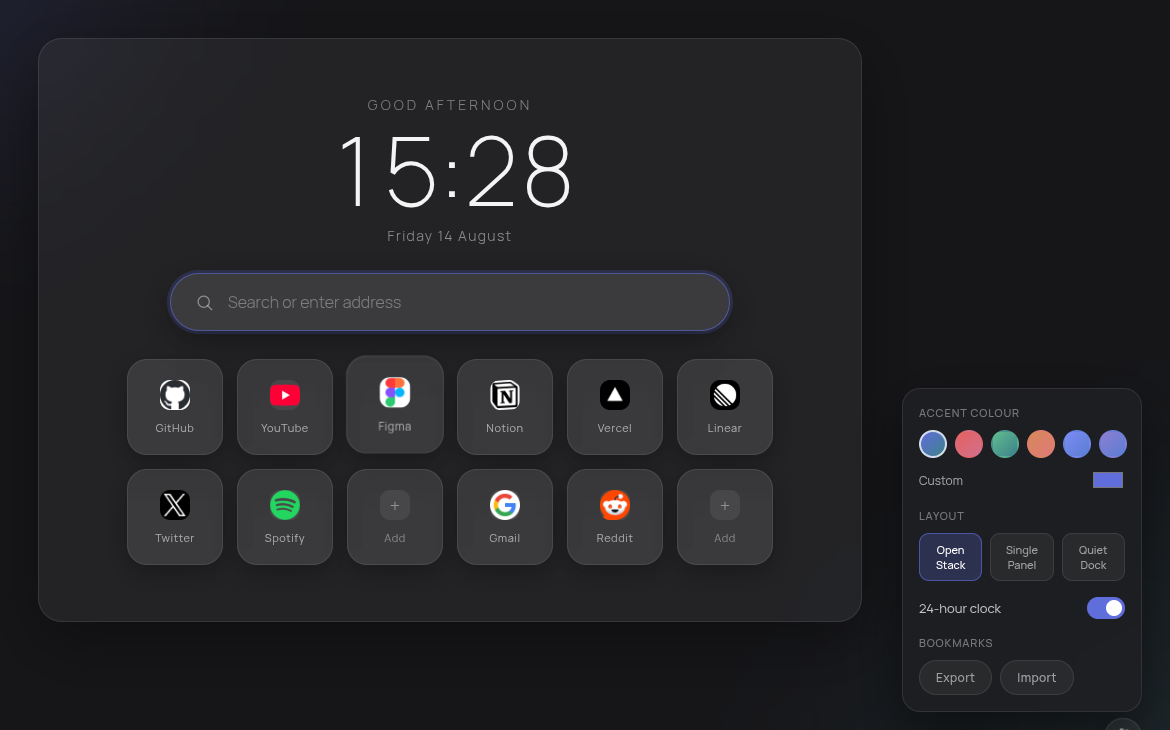
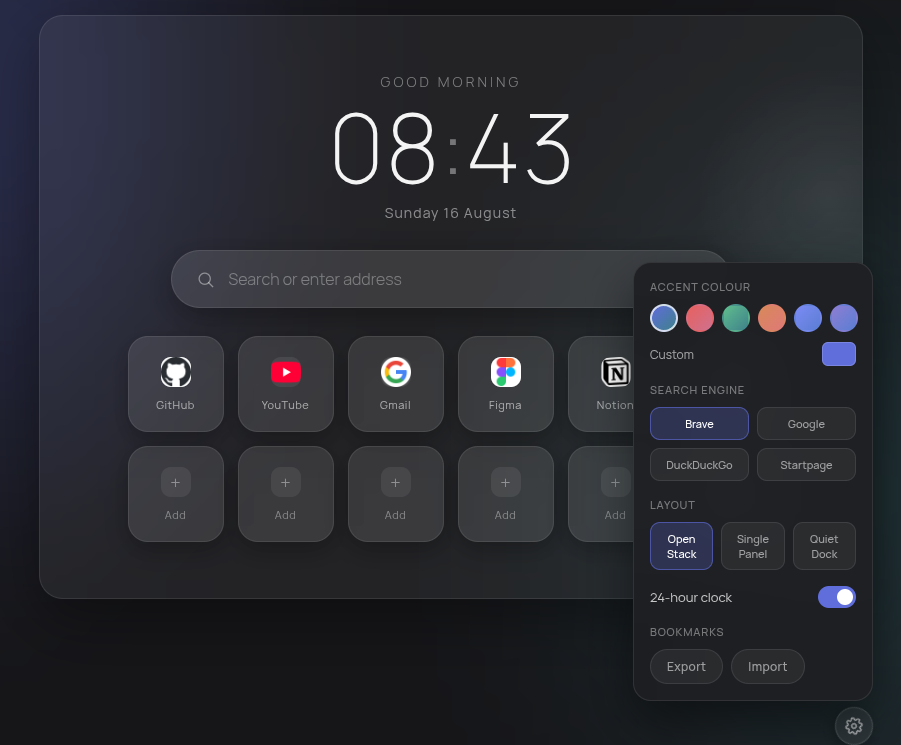
Release v1.1
Bump manifest version to 1.1, add CHANGELOG.md, update the README's
feature list for the search engine switcher, drag-to-reorder, liquid-
glass hover glow, and the redesigned bookmark modal, and refresh the
settings screenshot to show the new search engine section.

diff --git a/README.md b/README.md
@@ -8,6 +8,7 @@
 
 A live clock, quick search, and a 12-tile bookmark grid — wrapped in a soft, animated frosted-glass surface with three selectable layouts.
 
+[![Release](https://img.shields.io/badge/release-v1.1-6d78e8?style=flat-square)](../../releases/latest)
 [![License: MIT](https://img.shields.io/badge/license-MIT-6d78e8?style=flat-square)](LICENSE)
 [![Manifest V3](https://img.shields.io/badge/manifest-v3-6d78e8?style=flat-square)](manifest.json)
 [![No dependencies](https://img.shields.io/badge/dependencies-none-6d78e8?style=flat-square)](#tech)
@@ -23,9 +24,13 @@ A live clock, quick search, and a 12-tile bookmark grid — wrapped in a soft, a
 ## Features
 
 - **Three layouts** — pick the shape that fits how you browse
-- **Live clock** with a 12/24-hour toggle, auto date, and time-aware greeting
+- **Search engine switcher** — Brave, Google, DuckDuckGo, or Startpage, picked from settings
+- **Drag-to-reorder bookmarks** — drag any tile onto another to swap their places, even into an empty slot
+- **Live clock** with a 12/24-hour toggle, a softly pulsing colon, auto date, and time-aware greeting
 - **Accent themes** — six curated presets plus a custom color picker, rendered as a soft dual-tone glow behind the page
 - **12-tile bookmark grid** — click to open, right-click to edit
+- **Liquid-glass hover glow** — a cursor-tracked specular highlight sweeps across the frosted card, search bar, and tiles as you move the mouse
+- **Frosted, animated bookmark editor** — the add/edit modal opens and closes with a soft blur-and-scale transition
 - **Cached favicons** — each icon is fetched once per domain and cached locally, so new tabs load instantly with no repeat network calls
 - **Full keyboard navigation** — arrow keys move between bookmarks and the search bar, `Enter`/`Space` opens the focused tile
 - **Middle-click** any bookmark to open it in a new tab
@@ -49,7 +54,7 @@ A live clock, quick search, and a 12-tile bookmark grid — wrapped in a soft, a
 </td>
 <td align="center" width="34%">
 <img src="screenshots/dock.png" width="100%" alt="Quiet Dock layout" /><br />
-<sub><b>Quiet Dock</b> — a minimal icon strip, clock as anchor</sub>
+<sub><b>Quiet Dock</b> — a minimal icon strip, clock as anchor, names on hover</sub>
 </td>
 </tr>
 </table>
@@ -91,6 +96,12 @@ Frostpane isn't on the Chrome Web Store — install it as an unpacked extension:
 ## Tech
 
 No build step, no framework — vanilla HTML, CSS, and JavaScript, backed by `chrome.storage.local` for persistence. Manifest V3.
+
+<br />
+
+## Changelog
+
+See [CHANGELOG.md](CHANGELOG.md) for release notes.
 
 <br />
 

diff --git a/CHANGELOG.md b/CHANGELOG.md
@@ -1,0 +1,25 @@
+# Changelog
+
+All notable changes to Frostpane are documented here.
+
+## [1.1] — 2026-08-16
+
+### Added
+- Search engine switcher — choose Brave, Google, DuckDuckGo, or Startpage from the settings panel
+- Drag-to-reorder bookmarks — drag a tile onto another to swap their positions, including into an empty slot
+- Cursor-tracked liquid-glass hover glow on the frosted card, search bar, and tiles
+- Softly pulsing colon in the clock
+
+### Changed
+- The add/edit bookmark modal is now frosted and animates open/closed instead of appearing instantly
+- Tile hover now lifts and brightens with an inset highlight, on top of the existing zoom
+- In Single Panel layout, the date now sits next to the clock instead of pinned to the far edge
+- The custom bookmark-name tooltip now only appears in Quiet Dock, since the other two layouts already show names inline
+- Sharper date/greeting text via corrected font smoothing and weight
+
+### Fixed
+- Blurry date/day-of-week text rendering
+
+## [1.0] — 2026-08-14
+
+Initial release: live clock, quick search, 12-tile bookmark grid, three selectable layouts, accent color themes, cached favicons, keyboard navigation, and JSON export/import.
